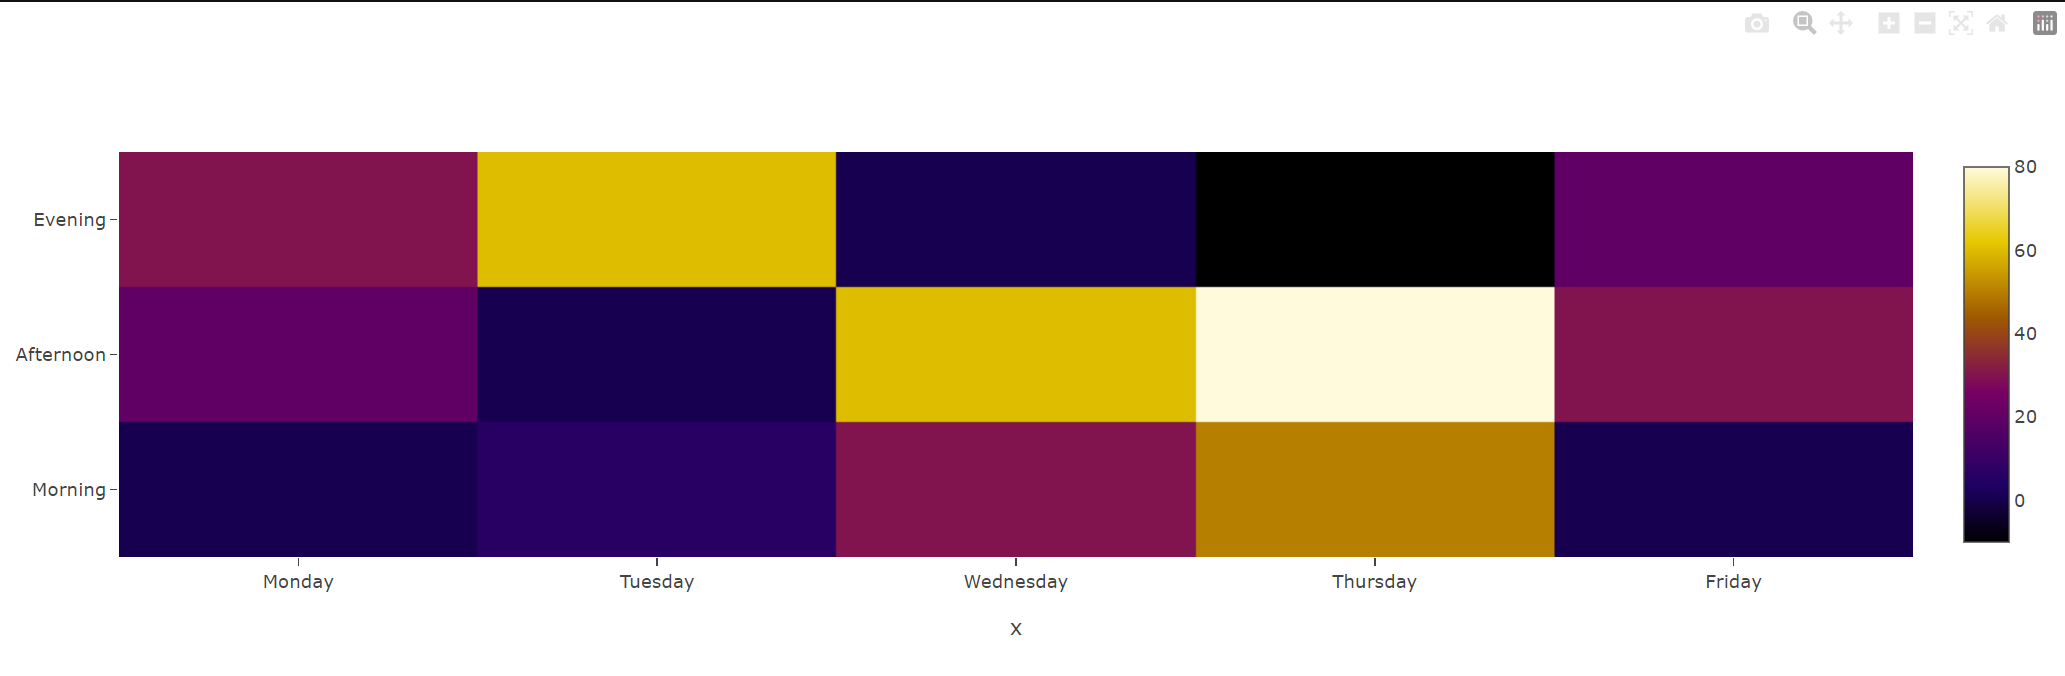
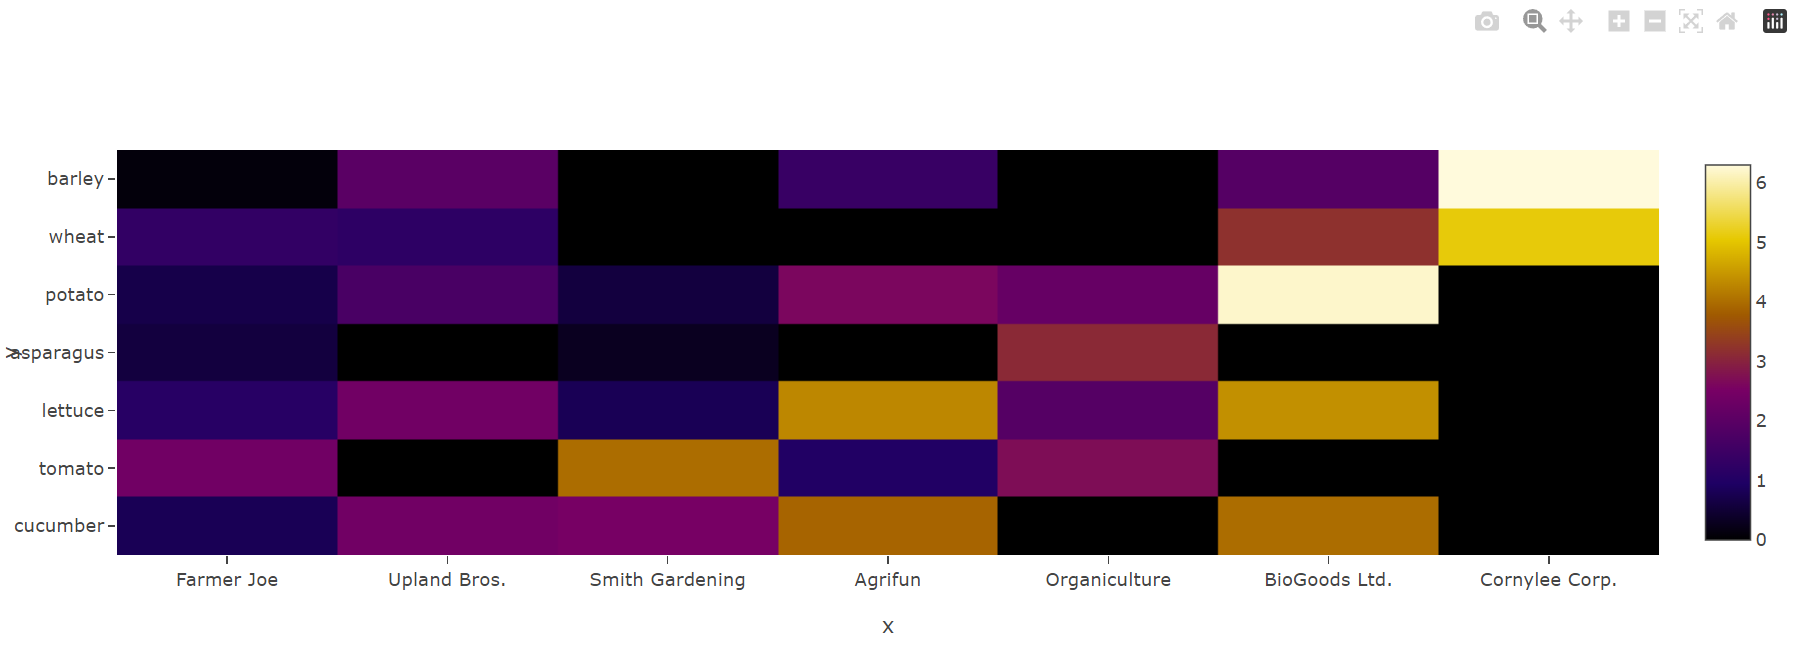
Update image for basic Heatmap and Heatmap with Categorical

diff --git a/docs/manuals/gui/viselements/charts/heatmap.md b/docs/manuals/gui/viselements/charts/heatmap.md
@@ -5,7 +5,7 @@ A heatmap depicts values for a main variable of interest across two axis variabl
 ### When to Use?
 - To show user behavior on specific webpages.
 - To display the magnitude of a data set over two dimensions.
-- In retail matrix, manufacturing diagram, population maps.
+- In retail matrix, manufacturing diagram, and population maps.
 - For marketing goals and analytics, reflecting on user behavior on specific webpages.
 - And more
 
@@ -33,15 +33,34 @@ import pandas as pd
 
 data = [
     pd.DataFrame({
-        'z': [[1, 6, 30, 50, 1], [20, 1, 60, 80, 30], [30, 60, 1, -10, 20]],
-        'y': ['Morning', 'Afternoon', 'Evening']
+        'z': [
+            [0.8, 2.4, 2.5, 3.9, 0.0, 4.0, 0.0],
+            [2.4, 0.0, 4.0, 1.0, 2.7, 0.0, 0.0],
+            [1.1, 2.4, 0.8, 4.3, 1.9, 4.4, 0.0],
+            [0.6, 0.0, 0.3, 0.0, 3.1, 0.0, 0.0],
+            [0.7, 1.7, 0.6, 2.6, 2.2, 6.2, 0.0],
+            [1.3, 1.2, 0.0, 0.0, 0.0, 3.2, 5.1],
+            [0.1, 2.0, 0.0, 1.4, 0.0, 1.9, 6.3]
+        ],
+        'y': ["cucumber",
+              "tomato",
+              "lettuce",
+              "asparagus",
+              "potato",
+              "wheat",
+              "barley"]
     }),
     pd.DataFrame({
-        'x': ['Monday', 'Tuesday', 'Wednesday', 'Thursday', 'Friday'],
+        'x': ["Farmer Joe",
+              "Upland Bros.",
+              "Smith Gardening",
+              "Agrifun",
+              "Organiculture",
+              "BioGoods Ltd.",
+              "Cornylee Corp."],
     })
 ]
 
-// Apply new color scheme
 options = {'colorscale': 'Electric'}
 
 md = """
